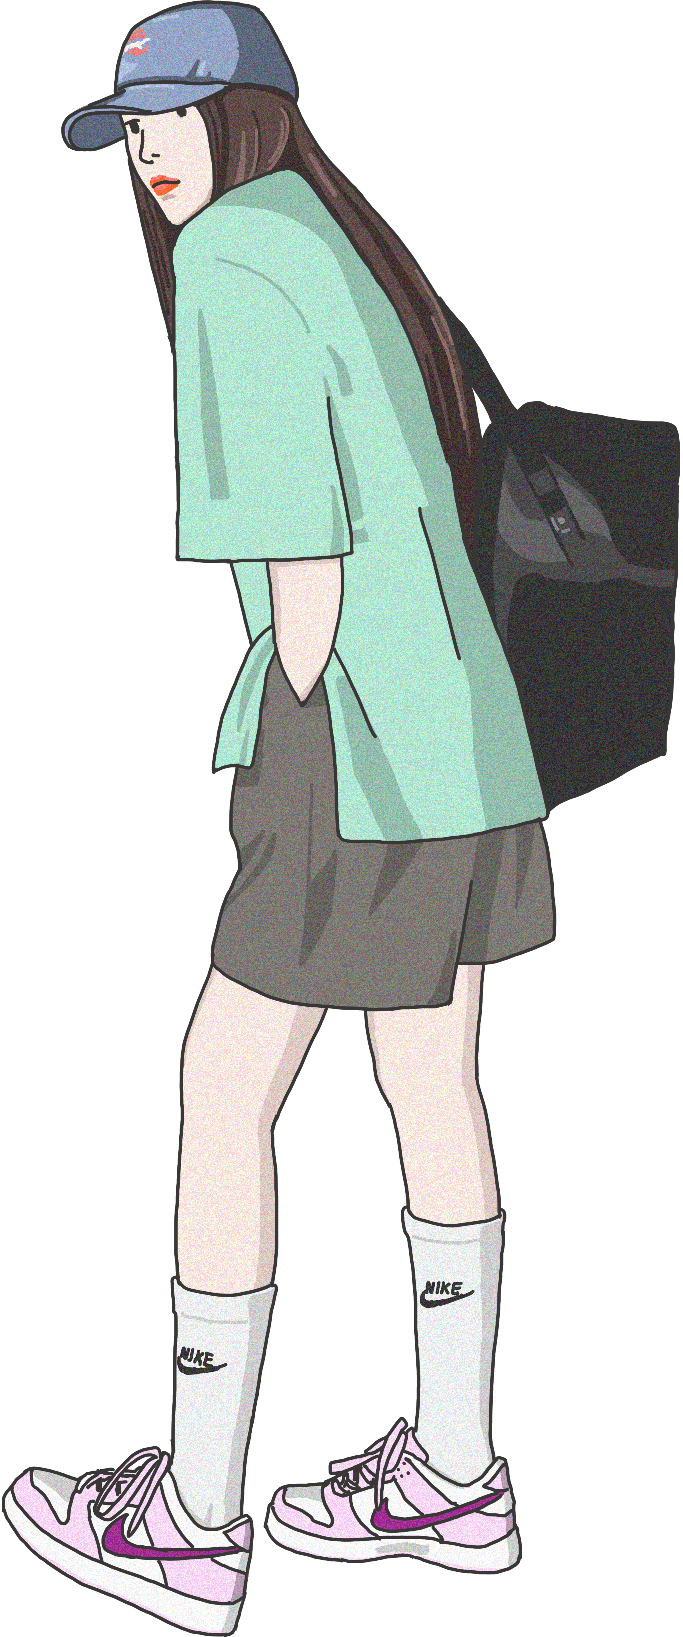
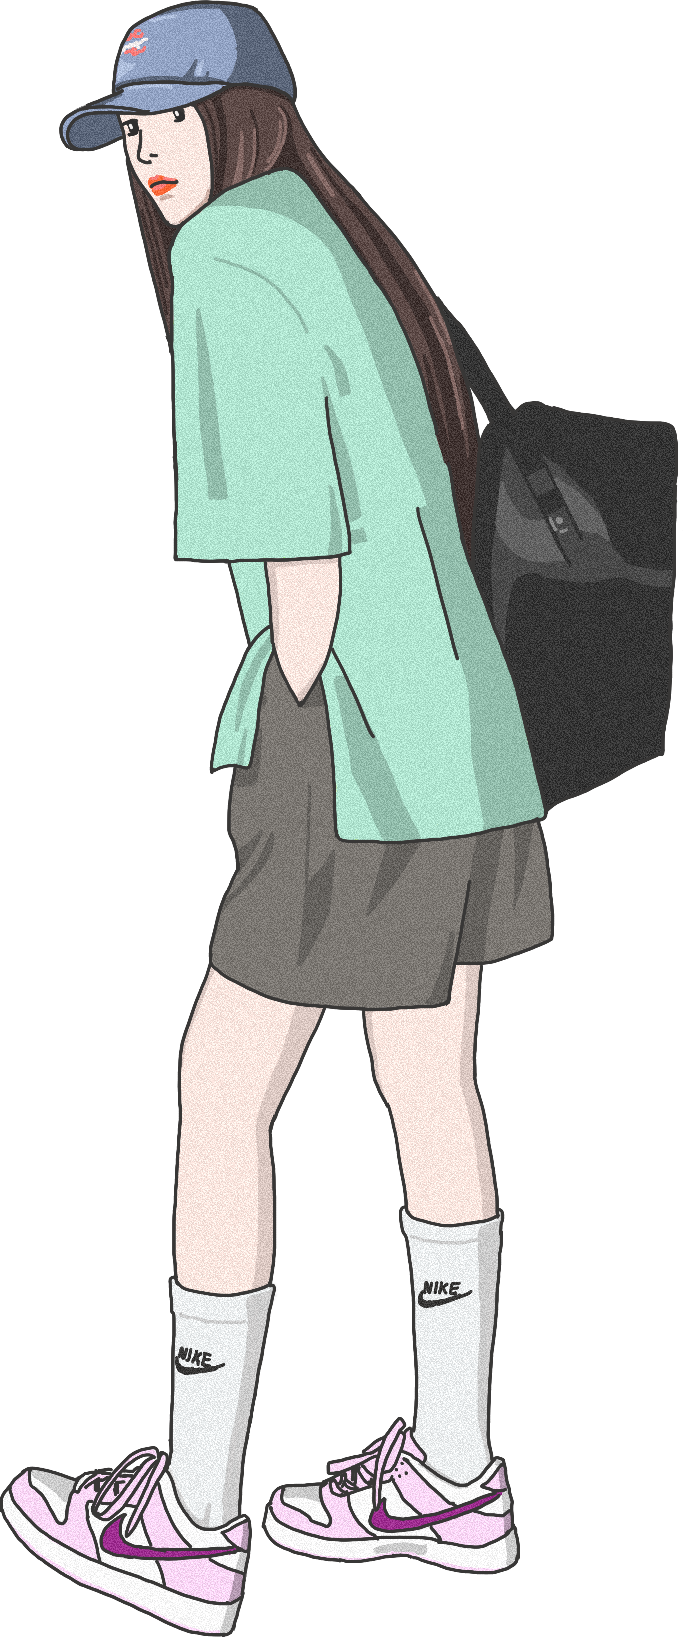
202407151756

Changed region(s): [[0.0, 0.0, 1.0, 1.0]]

diff --git a/templates/book.html b/templates/book.html
@@ -16,7 +16,7 @@
     <link href="https://fonts.googleapis.com/css2?family=Rampart+One&family=Yusei+Magic&family=Zen+Kurenaido&display=swap" rel="stylesheet">
     <link href="https://fonts.googleapis.com/css2?family=Bebas+Neue&family=Nunito:ital,wght@0,200..1000;1,200..1000&display=swap" rel="stylesheet">
 
-    <title>sterna</title>
+    <title>STERUN</title>
 
     <link href="https://cdnjs.cloudflare.com/ajax/libs/bootstrap-datetimepicker/3.0.0/css/bootstrap-datetimepicker.min.css" rel="stylesheet"/>
   </head>
@@ -43,7 +43,7 @@
       </ul>
       <div class="navbar-logo">
         <a href="{% url "reservation:sterna" %}">
-          <img src="{% static 'img/sterun-1.png' %}" alt=""/>
+          <img src="{% static 'img/sterun-logo-3.png' %}" alt=""/>
         </a>
       </div>
       <ul class="navbar-menu">
@@ -62,7 +62,7 @@
     <div class="navbar-space"></div>
     <div class="tocenter">
       <div class="flex-row">
-        <img class="fade-in reserv-img" src="{% static 'img/illust_nike1.png' %}" alt="">
+        <img class="fade-in reserv-img" src="{% static 'img/girl_2.png' %}" alt="">
         <div class="flex-column">
           <div style="margin: 20px 0 30px 0">
             <p class="reserv-noti fade-in">The items are premium products, which are being thoroughly cleaned and disinfected.</p>
@@ -99,7 +99,7 @@
                 10,000 won
               </td>
               <td data-th="+1 Day">
-                + 3000 won
+                + 3,000 won
               </td>
 
             </tr>
@@ -123,7 +123,7 @@
                 3,000 won
               </td>
               <td data-th="+1 Day">
-                +1,000 won
+                + 1,000 won
               </td>
 
             </tr>
@@ -135,7 +135,7 @@
                 2,000 won
               </td>
               <td data-th="+1 Day">
-                500 won
+                + 500 won
               </td>
 
             </tr>
@@ -250,7 +250,7 @@
           <div class="mobile-nav-up">
             <div class='mobile-nav-top'>
               <a href="{% url "reservation:index" %}">
-                <img style="width:120px; " src="{% static 'img/sterun-1.png' %}" alt=""/>
+                <img style="width:120px; " src="{% static 'img/sterun-logo-3.png' %}" alt=""/>
               </a>
 
               <i class="fa solid fa-x" id="modalCloseButton"></i>

diff --git a/templates/check.html b/templates/check.html
@@ -16,7 +16,7 @@
     <link href="https://fonts.googleapis.com/css2?family=Rampart+One&family=Yusei+Magic&family=Zen+Kurenaido&display=swap" rel="stylesheet">
     <link href="https://fonts.googleapis.com/css2?family=Bebas+Neue&family=Nunito:ital,wght@0,200..1000;1,200..1000&display=swap" rel="stylesheet">
 
-    <title>sterna</title>
+    <title>STERUN</title>
 
     <link href="https://cdnjs.cloudflare.com/ajax/libs/bootstrap-datetimepicker/3.0.0/css/bootstrap-datetimepicker.min.css" rel="stylesheet"/>
   </head>
@@ -43,7 +43,7 @@
       </ul>
       <div class="navbar-logo">
         <a href="{% url "reservation:sterna" %}">
-          <img src="{% static 'img/sterun-1.png' %}" alt=""/>
+          <img src="{% static 'img/sterun-logo-3.png' %}" alt=""/>
         </a>
       </div>
       <ul class="navbar-menu">
@@ -92,7 +92,7 @@
         <div class="mobile-nav-up">
           <div class='mobile-nav-top'>
             <a href="{% url "reservation:index" %}">
-              <img style="width:120px; " src="{% static 'img/sterun-1.png' %}" alt=""/>
+              <img style="width:120px; " src="{% static 'img/sterun-logo-3.png' %}" alt=""/>
             </a>
 
             <i class="fa solid fa-x" id="modalCloseButton"></i>

diff --git a/templates/sterna.html b/templates/sterna.html
@@ -16,7 +16,7 @@
     <link href="https://fonts.googleapis.com/css2?family=Rampart+One&family=Yusei+Magic&family=Zen+Kurenaido&display=swap" rel="stylesheet">
     <link href="https://fonts.googleapis.com/css2?family=Bebas+Neue&family=Nunito:ital,wght@0,200..1000;1,200..1000&display=swap" rel="stylesheet">
 
-    <title>sterna</title>
+    <title>STERUN</title>
 
     <link href="https://cdnjs.cloudflare.com/ajax/libs/bootstrap-datetimepicker/3.0.0/css/bootstrap-datetimepicker.min.css" rel="stylesheet"/>
 
@@ -44,7 +44,7 @@
       </ul>
       <div class="navbar-logo">
         <a href="{% url "reservation:sterna" %}">
-          <img src="{% static 'img/sterun-1.png' %}" alt=""/>
+          <img src="{% static 'img/sterun-logo-3.png' %}" alt=""/>
         </a>
       </div>
       <ul class="navbar-menu">
@@ -163,7 +163,7 @@
         <div class="mobile-nav-up">
           <div class='mobile-nav-top'>
             <a href="{% url "reservation:sterna" %}">
-              <img style="width:120px; " src="{% static 'img/sterun-1.png' %}" alt=""/>
+              <img style="width:120px; " src="{% static 'img/sterun-logo-3.png' %}" alt=""/>
             </a>
 
             <i class="fa solid fa-x" id="modalCloseButton"></i>

diff --git a/templates/contact.html b/templates/contact.html
@@ -11,7 +11,7 @@
     <link rel="stylesheet" type="text/css" href="{% static 'css/sterna.css' %}"/>
     <link rel="stylesheet" type="text/css" href="{% static 'css/normalize.css' %}"/>
 
-    <title>sterna</title>
+    <title>STERUN</title>
 
     <link href="https://cdnjs.cloudflare.com/ajax/libs/bootstrap-datetimepicker/3.0.0/css/bootstrap-datetimepicker.min.css" rel="stylesheet"/>
 
@@ -39,7 +39,7 @@
       </ul>
       <div class="navbar-logo">
         <a href="{% url "reservation:sterna" %}">
-          <img src="{% static 'img/sterun-1.png' %}" alt=""/>
+          <img src="{% static 'img/sterun-logo-3.png' %}" alt=""/>
         </a>
       </div>
       <ul class="navbar-menu">
@@ -98,7 +98,7 @@
       <div class="mobile-nav-up">
         <div class='mobile-nav-top'>
           <a href="{% url "reservation:index" %}">
-            <img style="width:120px; " src="{% static 'img/sterun-1.png' %}" alt=""/>
+            <img style="width:120px; " src="{% static 'img/sterun-logo-3.png' %}" alt=""/>
           </a>
           <i class="fa solid fa-x" id="modalCloseButton"></i>
         </div>

diff --git a/templates/mypage.html b/templates/mypage.html
@@ -11,7 +11,7 @@
     <link rel="stylesheet" type="text/css" href="{% static 'css/sterna.css' %}"/>
     <link rel="stylesheet" type="text/css" href="{% static 'css/normalize.css' %}"/>
 
-    <title>sterna</title>
+    <title>STERUN</title>
 
     <link href="https://cdnjs.cloudflare.com/ajax/libs/bootstrap-datetimepicker/3.0.0/css/bootstrap-datetimepicker.min.css" rel="stylesheet"/>
 
@@ -39,7 +39,7 @@
       </ul>
       <div class="navbar-logo">
         <a href="{% url "reservation:sterna" %}">
-          <img src="{% static 'img/sterun-1.png' %}" alt=""/>
+          <img src="{% static 'img/sterun-logo-3.png' %}" alt=""/>
         </a>
       </div>
       <ul class="navbar-menu">
@@ -189,7 +189,7 @@
       <div class="mobile-nav-up">
         <div class='mobile-nav-top'>
           <a href="{% url "reservation:index" %}">
-            <img style="width:120px; " src="{% static 'img/sterun-1.png' %}" alt=""/>
+            <img style="width:120px; " src="{% static 'img/sterun-logo-3.png' %}" alt=""/>
           </a>
 
           <i class="fa solid fa-x" id="modalCloseButton"></i>

diff --git a/templates/users/login.html b/templates/users/login.html
@@ -16,7 +16,7 @@
     <link href="https://fonts.googleapis.com/css2?family=Rampart+One&family=Yusei+Magic&family=Zen+Kurenaido&display=swap" rel="stylesheet">
     <link href="https://fonts.googleapis.com/css2?family=Bebas+Neue&family=Nunito:ital,wght@0,200..1000;1,200..1000&display=swap" rel="stylesheet">
 
-    <title>sterna</title>
+    <title>STERUN</title>
 
     <link href="https://cdnjs.cloudflare.com/ajax/libs/bootstrap-datetimepicker/3.0.0/css/bootstrap-datetimepicker.min.css" rel="stylesheet"/>
 
@@ -24,7 +24,7 @@
 
   <body>
     <div class="tocenter">
-      <img style="margin:80px 0 30px 0; height:100px;" src="{% static "img/sterun-1.png" %}" alt="">
+      <img style="margin:80px 0 30px 0; height:100px;" src="{% static "img/sterun-logo-3.png" %}" alt="">
       <h1>관리자 로그인</h1>
       <form method="post" action="{% url 'users:login' %}">
         {% csrf_token %}

diff --git a/templates/admin/pay.html b/templates/admin/pay.html
@@ -11,7 +11,7 @@
     <link rel="stylesheet" type="text/css" href="{% static 'css/sterna.css' %}"/>
     <link rel="stylesheet" type="text/css" href="{% static 'css/normalize.css' %}"/>
 
-    <title>sterna</title>
+    <title>STERUN</title>
 
     <link href="https://cdnjs.cloudflare.com/ajax/libs/bootstrap-datetimepicker/3.0.0/css/bootstrap-datetimepicker.min.css" rel="stylesheet"/>
 
@@ -39,7 +39,7 @@
       </ul>
       <div class="navbar-logo">
         <a href="{% url "reservation:sterna" %}">
-          <img src="{% static 'img/sterun-1.png' %}" alt=""/>
+          <img src="{% static 'img/sterun-logo-3.png' %}" alt=""/>
         </a>
       </div>
       <ul class="navbar-menu">

diff --git a/templates/admin/data.html b/templates/admin/data.html
@@ -17,7 +17,7 @@
     <link href="https://fonts.googleapis.com/css2?family=Rampart+One&family=Yusei+Magic&family=Zen+Kurenaido&display=swap" rel="stylesheet">
     <link href="https://fonts.googleapis.com/css2?family=Bebas+Neue&family=Nunito:ital,wght@0,200..1000;1,200..1000&display=swap" rel="stylesheet">
 
-    <title>sterna</title>
+    <title>STERUN</title>
 
     <link href="https://cdnjs.cloudflare.com/ajax/libs/bootstrap-datetimepicker/3.0.0/css/bootstrap-datetimepicker.min.css" rel="stylesheet"/>
   </head>

diff --git a/templates/admin/delete.html b/templates/admin/delete.html
@@ -17,7 +17,7 @@
     <link href="https://fonts.googleapis.com/css2?family=Rampart+One&family=Yusei+Magic&family=Zen+Kurenaido&display=swap" rel="stylesheet">
     <link href="https://fonts.googleapis.com/css2?family=Bebas+Neue&family=Nunito:ital,wght@0,200..1000;1,200..1000&display=swap" rel="stylesheet">
 
-    <title>sterna</title>
+    <title>STERUN</title>
 
     <link href="https://cdnjs.cloudflare.com/ajax/libs/bootstrap-datetimepicker/3.0.0/css/bootstrap-datetimepicker.min.css" rel="stylesheet"/>
   </head>

diff --git a/templates/admin/edit.html b/templates/admin/edit.html
@@ -17,7 +17,7 @@
     <link href="https://fonts.googleapis.com/css2?family=Rampart+One&family=Yusei+Magic&family=Zen+Kurenaido&display=swap" rel="stylesheet">
     <link href="https://fonts.googleapis.com/css2?family=Bebas+Neue&family=Nunito:ital,wght@0,200..1000;1,200..1000&display=swap" rel="stylesheet">
 
-    <title>sterna</title>
+    <title>STERUN</title>
 
     <link href="https://cdnjs.cloudflare.com/ajax/libs/bootstrap-datetimepicker/3.0.0/css/bootstrap-datetimepicker.min.css" rel="stylesheet"/>
   </head>

diff --git a/templates/admin/register.html b/templates/admin/register.html
@@ -17,7 +17,7 @@
     <link href="https://fonts.googleapis.com/css2?family=Rampart+One&family=Yusei+Magic&family=Zen+Kurenaido&display=swap" rel="stylesheet">
     <link href="https://fonts.googleapis.com/css2?family=Bebas+Neue&family=Nunito:ital,wght@0,200..1000;1,200..1000&display=swap" rel="stylesheet">
 
-    <title>sterna</title>
+    <title>STERUN</title>
 
     <link href="https://cdnjs.cloudflare.com/ajax/libs/bootstrap-datetimepicker/3.0.0/css/bootstrap-datetimepicker.min.css" rel="stylesheet"/>
   </head>

diff --git a/static/css/sterna.css b/static/css/sterna.css
@@ -1,7 +1,7 @@
 :root {
-    --sterun-primary-color: #FFF100;
+    --sterun-primary-color: #fbff00;
     --sterun-secondary-color: #3A3A3A;
-    --sterun-thirdary-color: #00539C;
+    --sterun-thirdary-color: #4467AF;
     --sterun-white-color: #FCF6F5;
     --sterun-black-color: #1d1d1d;
     --sterun-grey-color: #E8E8E8;
@@ -325,7 +325,7 @@ img {
 }
 
 .navbar-logo>a>img {
-    height:60px;
+    height:50px;
 }
 
 .navbar-menu {
